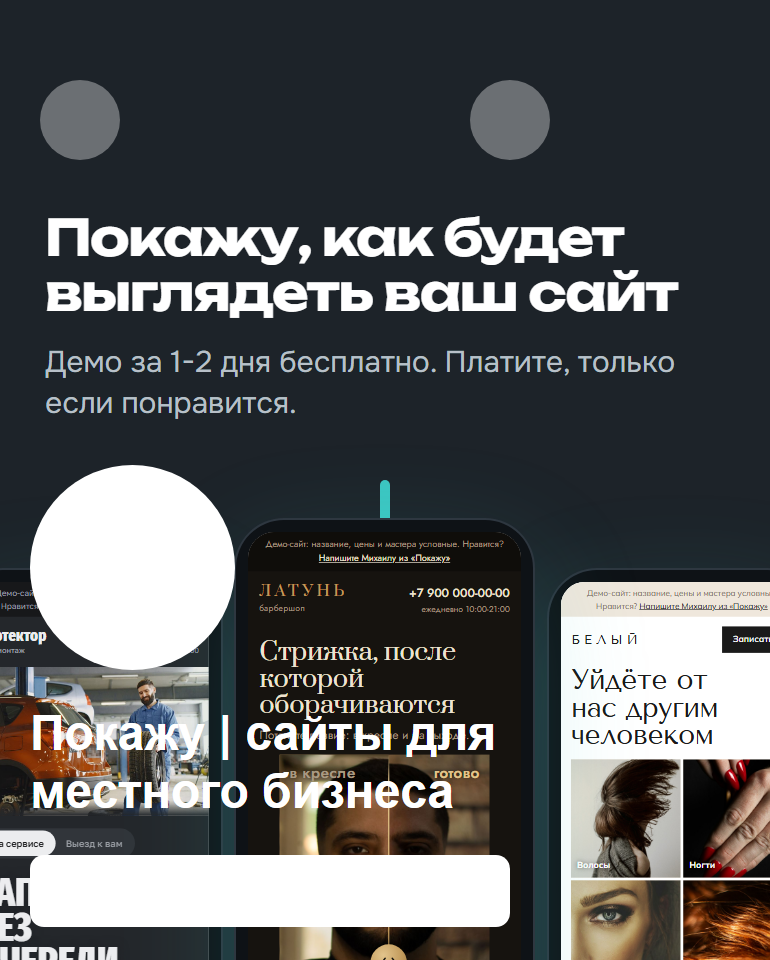
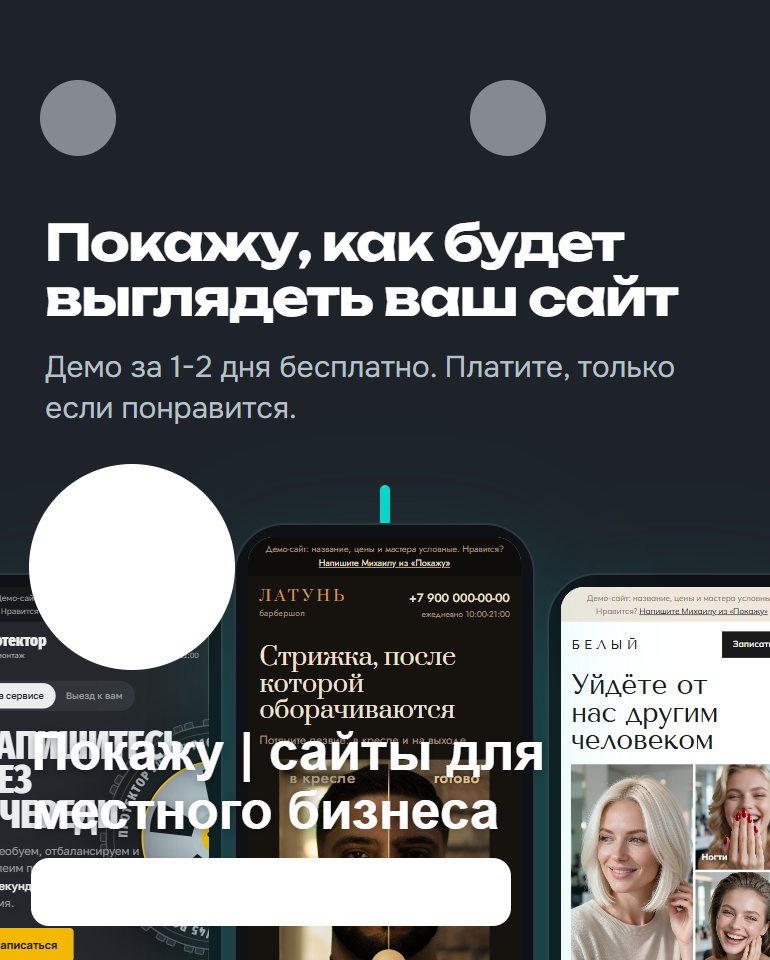
Исходник проверки мобильной обложки ВК (cover-check.html) и обновлённый снимок

diff --git a/brand/cards/cover-check.html b/brand/cards/cover-check.html
@@ -1,0 +1,33 @@
+<!doctype html>
+<html lang="ru">
+<head>
+<meta charset="utf-8">
+<title>Проверка обложки ВК в приложении</title>
+<style>
+  /* Макет «как обложка выглядит в мобильном ВК»: готовая обложка и поверх неё
+     элементы интерфейса приложения (кнопки в шапке, аватар, название, кнопка).
+     Разметка приблизительная, сделана по прежнему снимку проверки: положение элементов
+     в приложении ВК может отличаться. Нужна, чтобы убедиться, что текст и телефоны
+     на обложке не закрыты интерфейсом.
+     Снимок: окно 770x960, файл ../vk-cover-mobile-proverka.png */
+  html, body { margin: 0; width: 770px; height: 960px; overflow: hidden; background: #1D2329; }
+  .stage { position: relative; width: 770px; height: 960px; overflow: hidden; }
+  .stage img { position: absolute; left: -155px; top: -475px; width: 1080px; height: auto; display: block; }
+  .ui { position: absolute; font-family: "Onest", system-ui, sans-serif; }
+  .dot { width: 76px; height: 76px; border-radius: 50%; background: rgba(150, 156, 162, .85); }
+  .ava { left: 29px; top: 464px; width: 206px; height: 206px; border-radius: 50%; background: #FFFFFF; }
+  .name { left: 31px; top: 722px; width: 640px; color: #FFFFFF; font: 700 53px/1.12 Arial, sans-serif; text-shadow: 0 2px 10px rgba(0, 0, 0, .35); }
+  .btn { left: 31px; top: 858px; width: 480px; height: 68px; border-radius: 18px; background: #FFFFFF; }
+</style>
+</head>
+<body>
+  <div class="stage">
+    <img src="../vk-cover-pokazhu-mobile.png" alt="">
+    <div class="ui dot" style="left:40px;top:80px"></div>
+    <div class="ui dot" style="left:470px;top:80px"></div>
+    <div class="ui ava"></div>
+    <div class="ui name">Покажу | сайты для<br>местного бизнеса</div>
+    <div class="ui btn"></div>
+  </div>
+</body>
+</html>

diff --git a/brand/cards/README.md b/brand/cards/README.md
@@ -8,6 +8,7 @@
 | `cover.html` | Обложка ВК «на сайте» (компьютер и браузер), готовая - `../vk-cover-pokazhu.png` | 1920x768 |
 | `bloom.html` | Нарисованный цветок, который распускается: кадр задаётся параметром `t` от 0 до 1. Из кадров собрано видео поста 8 (`../../content/bank/08-kak-rabotayu.mp4`) | 1080x1350 (4:5) |
 | `cover-vertical.html` | Обложка ВК в мобильном приложении, готовая - `../vk-cover-pokazhu-mobile.png` | 1080x1920 |
+| `cover-check.html` | Проверка мобильной обложки: поверх неё элементы интерфейса ВК (кнопки шапки, аватар, название, кнопка), готовый снимок - `../vk-cover-mobile-proverka.png`. Разметка приблизительная, по прежнему снимку проверки | 770x960 |
 
 В телефонах на картинках - живые демо из папки `demos/`: если демо поменялось, картинку нужно сделать заново.
 
